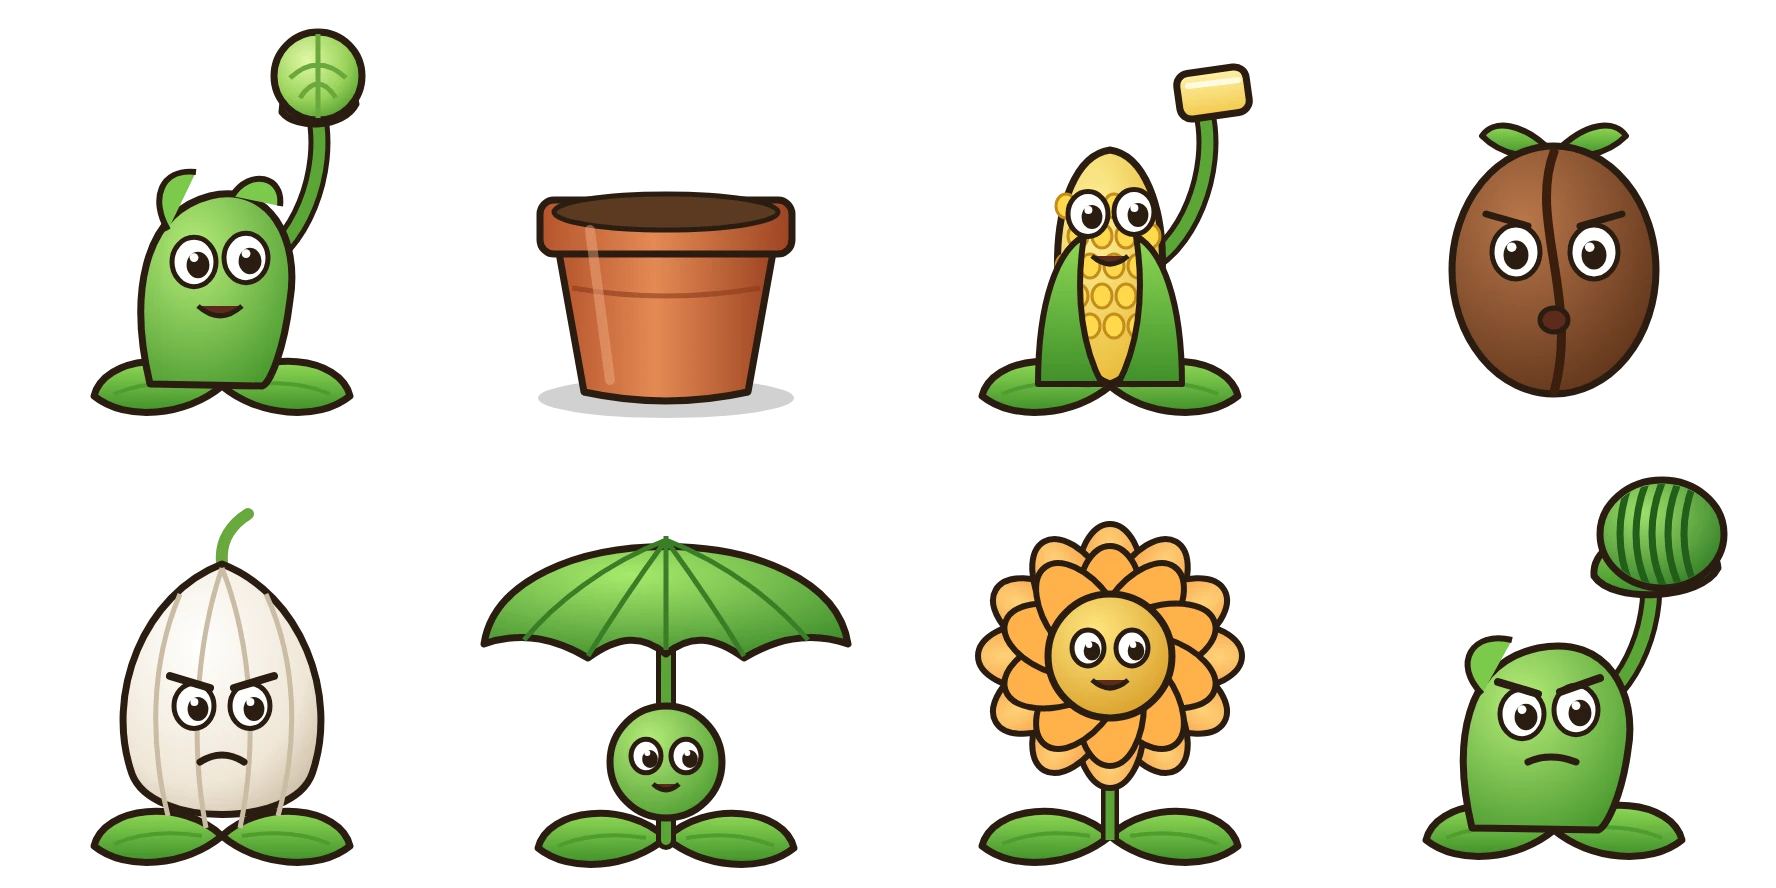
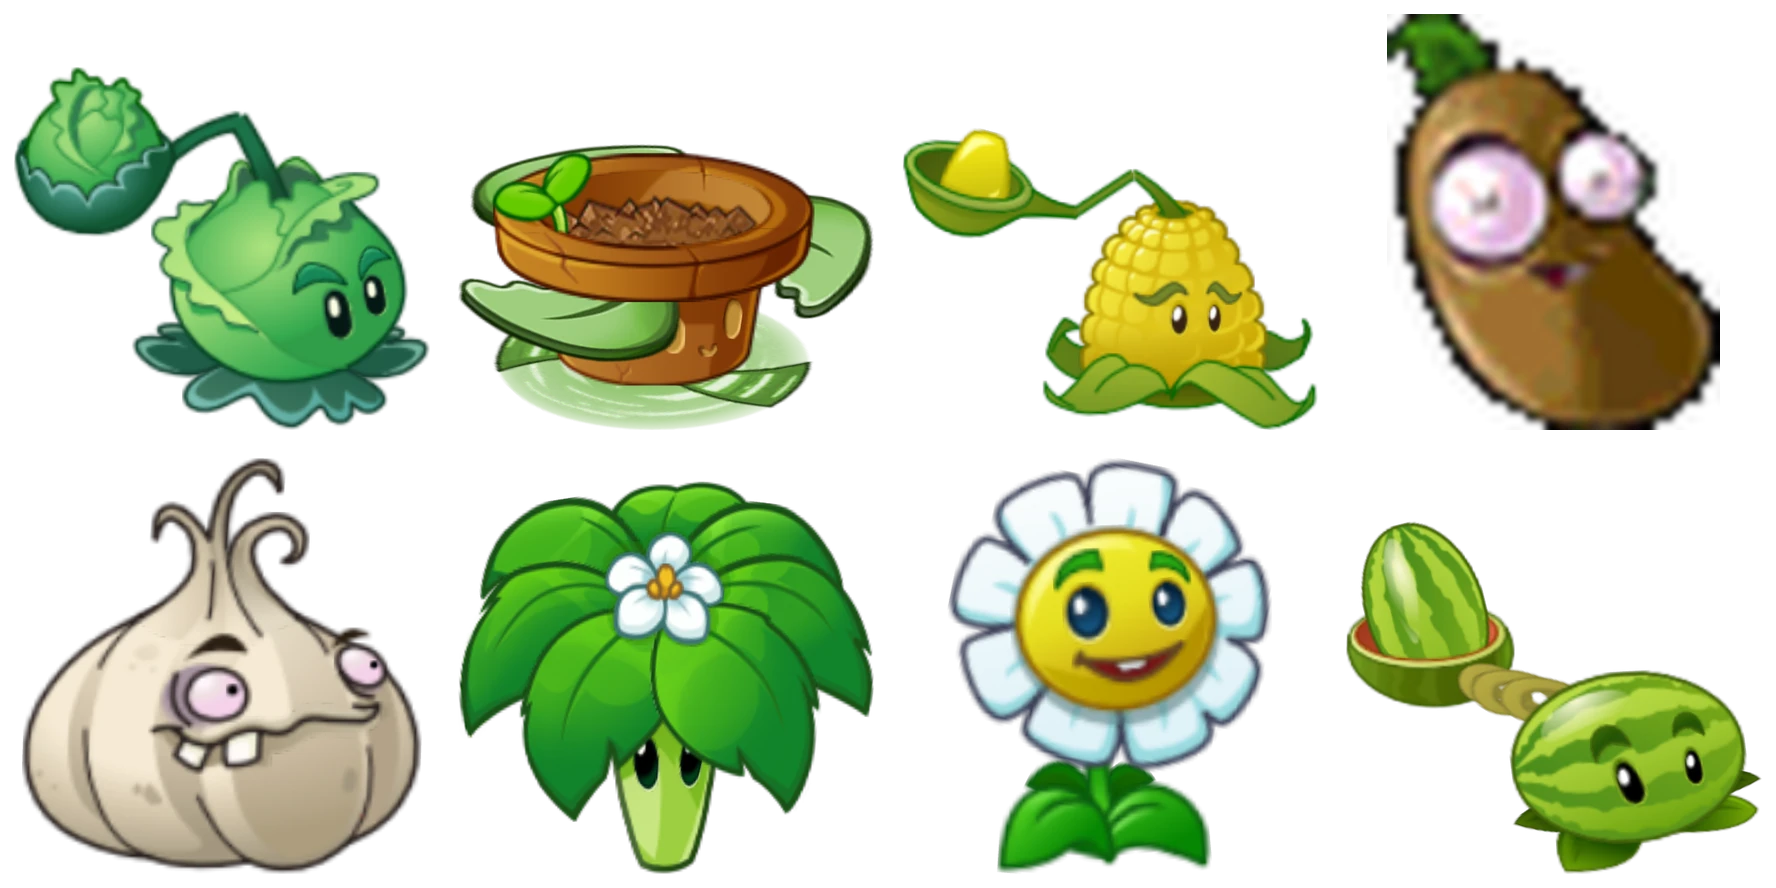
Tejado: plantas con arte original de Gardendless y PvZ 1
Siete plantas del tejado (Coltapulta, Maceta, Lanzamaíz, Ajo, Paraplanta,
Margarita y Melonpulta) se capturan del distribuible Gardendless ya fijado
y el Grano de café del sprite de PvZ 1 de pvzm.net. Se retira la hoja
vectorial de plantas, se ajusta el tamaño dibujado de las lanzadoras y la
maceta y se documenta la procedencia y que el escenario sigue siendo propio.

Claude-Session: https://claude.ai/code/session_0147MEdqhN3Ywda1oj38awDw

diff --git a/juego/web/src/jardin/pvz/arte/catalogo.ts b/juego/web/src/jardin/pvz/arte/catalogo.ts
@@ -15,7 +15,7 @@ export const ARTE_PLANTAS_PVZ:Readonly<Record<string,FiguraPvZ>>={
  tripitidora:{hoja:'tripitidora',celda:0,alto:110},
  ...grupo('niebla',['marseta','planterna','cactus','trebolador','bipetidora','frustrella','calabaza','magnetoseta'],[52,94,106,83,83,74,58,92]),
  'nuez-explosiva':{hoja:'dia',celda:3,alto:86},
- ...grupo('tejado',['coltapulta','maceta','lanzamaiz','grano-cafe','ajo','paraplanta','margarita','melonpulta'],[92,50,92,46,76,96,90,96]),
+ ...grupo('tejado',['coltapulta','maceta','lanzamaiz','grano-cafe','ajo','paraplanta','margarita','melonpulta'],[80,60,82,46,76,96,90,84]),
 };
 /** Accesorios del tejado (hoja propia vectorial): escalera, catapulta, poste, balón, robot, caravana y bolas del jefe. */
 export const ACCESORIOS_TEJADO_PVZ={escalera:0,catapulta:1,poste:2,balon:3,robot:4,caravana:5,fuego:6,hielo:7} as const;

diff --git a/juego/web/scripts/arte-tejado/montar-plantas.py b/juego/web/scripts/arte-tejado/montar-plantas.py
@@ -1,0 +1,52 @@
+"""Arma la hoja de plantas del tejado (4×2 celdas de 444 px) con el arte original de las plantas.
+
+Siete plantas salen de Gardendless (PvZ2), capturadas con `capturar-gardendless.mjs` sobre fondo negro y blanco
+para obtener el alfa exacto; el grano de café sale del sprite de PvZ 1 del repositorio de pvzm.net, porque
+Gardendless no lo tiene. Uso:
+  python3 scripts/arte-tejado/montar-plantas.py CAPTURAS CoffeeBean.gif
+CAPTURAS contiene <Id>DIS-negro.png y <Id>DIS-blanco.png. Escribe public/jardin/pvz/plantas-tejado.png;
+después `python3 scripts/jardin-webp.py --borrar-png` la pasa a WebP con alfa sin pérdida.
+"""
+import pathlib
+import sys
+
+import numpy as np
+from PIL import Image, ImageFilter
+
+CAPTURAS, CAFE = pathlib.Path(sys.argv[1]), sys.argv[2]
+DESTINO = pathlib.Path(__file__).resolve().parents[2] / 'public' / 'jardin' / 'pvz' / 'plantas-tejado.png'
+CELDA, MARGEN = 444, 14
+# Mismo orden que ARTE_PLANTAS (grupo tejado) en src/jardin/pvz/arte/catalogo.ts.
+ORDEN = ['CabbagePult', 'FloawerPot', 'KernelPult', None, 'Garlic', 'UmbrellaLeaf', 'MariGold', 'MelonPult']
+
+
+def con_alfa(id_):
+    negro = np.asarray(Image.open(CAPTURAS / f'{id_}DIS-negro.png').convert('RGB')).astype(float)
+    blanco = np.asarray(Image.open(CAPTURAS / f'{id_}DIS-blanco.png').convert('RGB')).astype(float)
+    alfa = np.clip(1 - (blanco - negro).mean(2) / 255, 0, 1)
+    color = np.where(alfa[..., None] > 0.003, negro / np.maximum(alfa[..., None], 1e-3), 0)
+    img = Image.fromarray(np.dstack([np.clip(color, 0, 255), alfa * 255]).astype(np.uint8), 'RGBA')
+    return img.crop(img.getchannel('A').point(lambda v: 255 if v > 8 else 0).getbbox())
+
+
+def cafe():
+    gif = Image.open(CAFE)
+    gif.seek(0)
+    img = gif.convert('RGBA')
+    img = img.crop(img.getbbox())
+    # Sprite de 37×46: se amplía con suavizado para que el escalón de píxeles no se note en la hoja.
+    img = img.resize((img.width * 8, img.height * 8), Image.LANCZOS).filter(ImageFilter.GaussianBlur(2))
+    return img
+
+
+hoja = Image.new('RGBA', (CELDA * 4, CELDA * 2), (0, 0, 0, 0))
+for i, id_ in enumerate(ORDEN):
+    img = con_alfa(id_) if id_ else cafe()
+    lado = CELDA - 2 * MARGEN
+    escala = min(lado / img.width, lado / img.height)
+    img = img.resize((round(img.width * escala), round(img.height * escala)), Image.LANCZOS)
+    x = (i % 4) * CELDA + (CELDA - img.width) // 2
+    y = (i // 4) * CELDA + CELDA - MARGEN - img.height
+    hoja.alpha_composite(img, (x, y))
+hoja.save(DESTINO)
+print('escrita', DESTINO, hoja.size)

diff --git a/docs/en-obra/pvz-tejado-2026-10-26.md b/docs/en-obra/pvz-tejado-2026-10-26.md
@@ -65,8 +65,18 @@ sin macetas vacías y la Maceta pesa 500 durante la caravana. Las cintas de los 
 - Progreso: una partida publicada que terminaba en 4-10 abre 5-1 sin acreditar victorias. Las monedas de la
   Margarita se suman al progreso aunque se pierda, como en PC. La tienda sigue pendiente.
 - Instantánea del motor: tiros parabólicos, monedas, escaleras y estado del jefe se guardan y se reanudan iguales.
-- Arte propio vectorial (`scripts/arte-tejado/`), del mismo estilo de pegatina: hoja de ocho plantas, hoja de
-  accesorios (escalera, catapulta, poste, balón, robot, caravana, bolas) y escenario del tejado. El colgado,
+- Plantas con arte original (pedido de Javier del 26 de octubre, tras rechazar las versiones vectorial y de
+  Blender): siete salen de Gardendless 0.16.0, el distribuible PvZ2 ya fijado en `motores.lock.json`
+  (Coltapulta, Maceta, Lanzamaíz, Ajo, Paraplanta, Margarita y Melonpulta, variantes DIS en pose de reposo);
+  el Grano de café sale del sprite de PvZ 1 de [pvzm.net](https://tangled.org/pvzm.net/game) (37×46 px,
+  ampliado y suavizado), porque Gardendless no lo tiene. `scripts/arte-tejado/capturar-gardendless.mjs` las
+  captura sobre negro y blanco y `montar-plantas.py` calcula el alfa y arma la hoja. Ese arte pertenece a
+  PopCap/EA; ninguno de los dos repositorios lo licencia. El estilo PvZ2 difiere de las hojas ilustradas de
+  los mundos 1–4.
+- No se encontró un escenario original del tejado: pvzm.net no tiene mundo del tejado (solo una textura de
+  tejas de 200 px) y PvZ2 tampoco. El escenario sigue siendo el vectorial propio.
+- Arte propio vectorial (`scripts/arte-tejado/`): hoja de accesorios (escalera, catapulta, poste, balón,
+  robot, caravana, bolas) y escenario del tejado. El colgado,
   el zombi escalera, el gargantúa y el diablillo reutilizan los cuerpos con ropa ya aprobados más sus
   accesorios. El gargantúa es un cuerpo agrandado con poste: falta un diseño propio. El robot del jefe es una
   cabeza con cuello; no tiene un cuerpo animado completo.

diff --git a/docs/pedidos.md b/docs/pedidos.md
@@ -18,7 +18,8 @@ veces (historia 147 → 117 MB, 104 de ellos son los recursos de Gardendless, qu
 **Hecho por Claude el 26 de octubre · mundo 5 del Jardín:** siguiendo el orden de pendientes (P2, completar PvZ 1),
 la aventura llega a 50 niveles con el tejado: Coltapulta, Maceta, Lanzamaíz, Grano de café, Ajo, Paraplanta,
 Margarita y Melonpulta; zombi colgado, zombi escalera, catapulta, gargantúa, diablillo y Dr. Zomboid; lluvia de
-colgados (5-5) y jefe final (5-10), con valores originales de PC. Arte vectorial propio. El piloto automático gana
+colgados (5-5) y jefe final (5-10), con valores originales de PC. Plantas con arte original (siete de Gardendless/PvZ2 y el Grano de café de
+PvZ 1, pedido de Javier); escenario y accesorios vectoriales propios. El piloto automático gana
 los ocho niveles normales al menos una vez pero no 5-5 ni 5-10. Ver `en-obra/pvz-tejado-2026-10-26.md`.
 
 ## Pedido vigente · ampliar la historia al mapa existente
